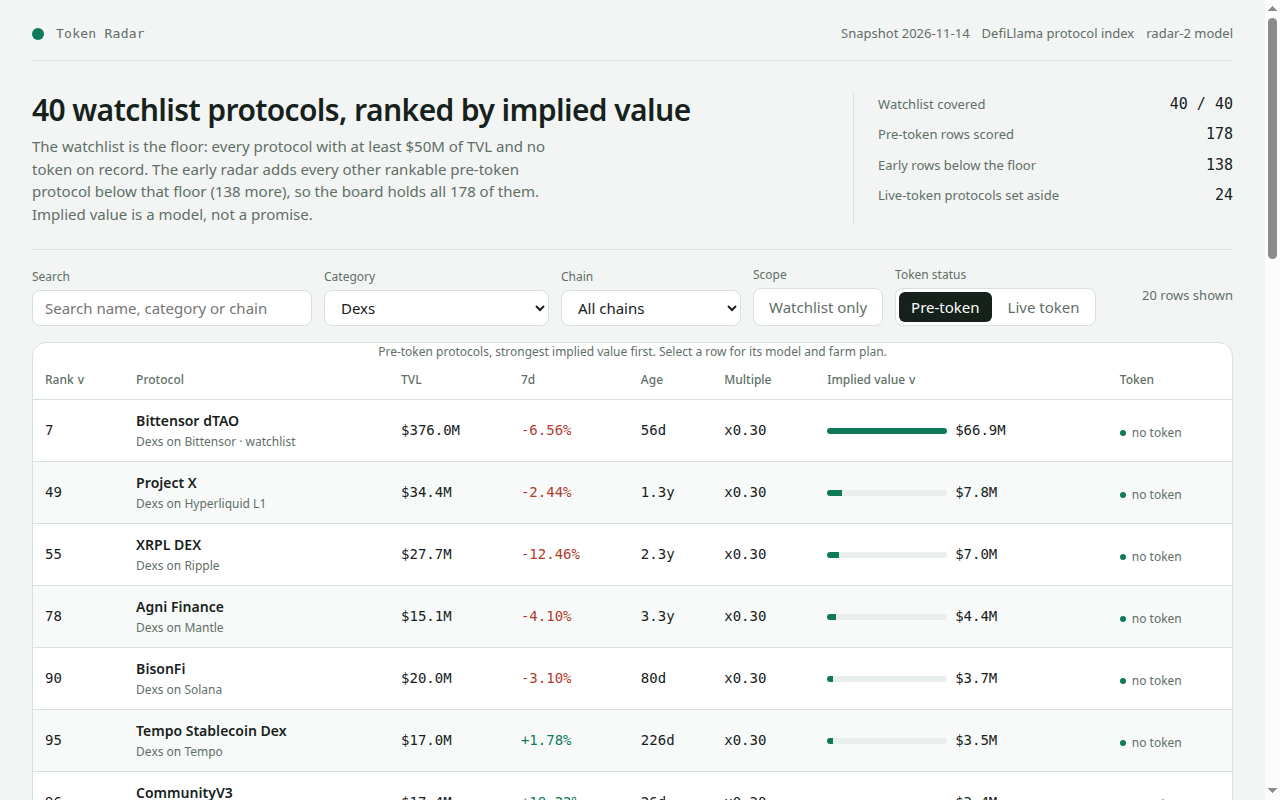
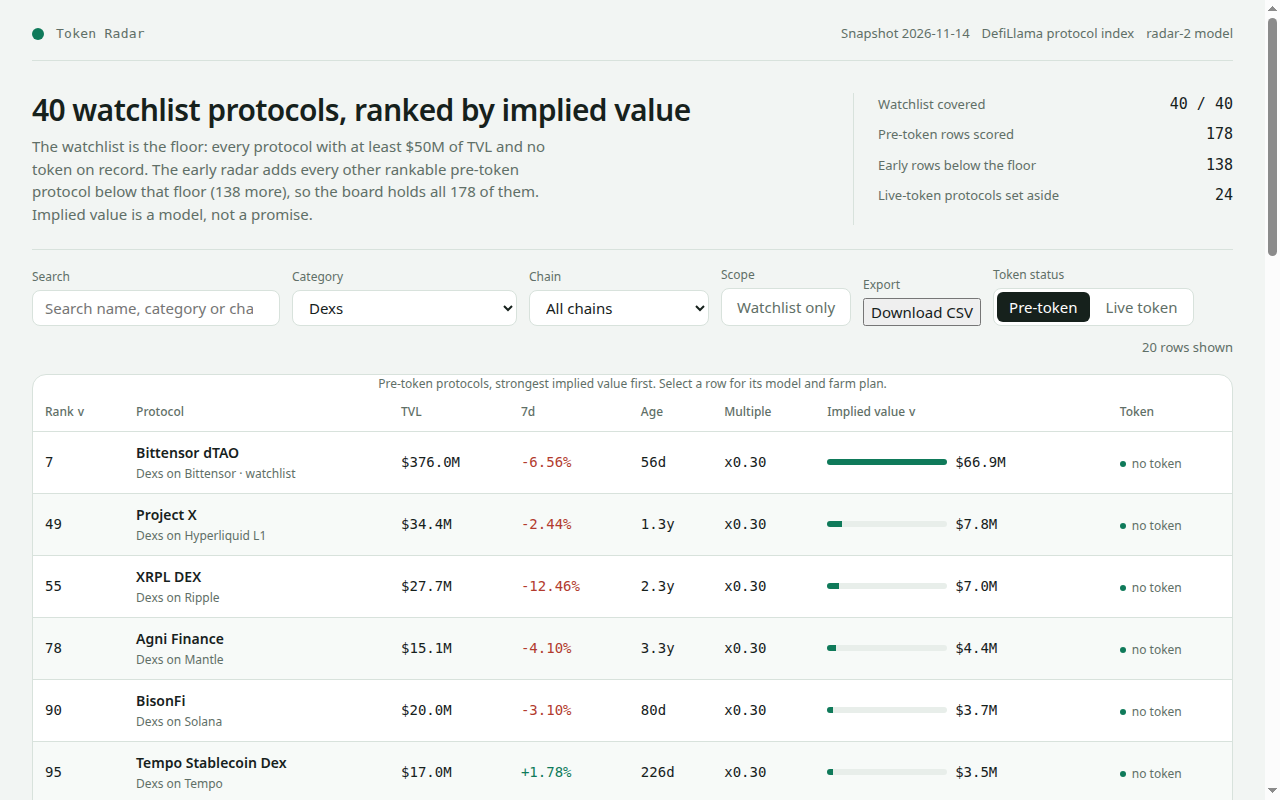
CSV export, copyable farm plans, verification docs, top-5 run log
- Dashboard: Download CSV button (board as CSV from the same rows),
  Copy farm plan button in the detail view.
- README: verification steps with exact commands, hand-checkable
  calibration math and a worked row (Steakhouse Financial), farm-plan
  derivation table, judging-criteria mapping, radar-1 to radar-2 log.
- main.ts prints the top 5 rows by implied value in the run log.
- Screenshots retaken from the rebuilt dashboard.

diff --git a/dashboard/app.js b/dashboard/app.js
@@ -119,6 +119,54 @@
     });
   }
 
+  // The board as a CSV file, built in the browser from the same rows the table shows: rank,
+  // slug, name, category, chains, TVL, seven-day growth, age, multiple and implied value.
+  // No network: the file is a Blob made from data.js, downloaded under a plain filename.
+  function downloadCsv() {
+    var head = ['rank', 'slug', 'name', 'category', 'chains', 'tvl_usd', 'change_7d', 'age_days', 'multiple', 'implied_value_usd'];
+    var lines = [head.join(',')];
+    DATA.rows.forEach(function (r) {
+      var cells = [
+        r.rank,
+        r.slug,
+        '"' + String(r.name).replace(/"/g, '""') + '"',
+        r.category || '',
+        '"' + (r.chains || []).join(';') + '"',
+        r.tvl_usd,
+        r.change_7d === null ? '' : r.change_7d,
+        r.age_days === null ? '' : r.age_days,
+        r.multiple,
+        r.implied_value_usd
+      ];
+      lines.push(cells.join(','));
+    });
+    var blob = new Blob([lines.join('\n') + '\n'], { type: 'text/csv' });
+    var a = document.createElement('a');
+    a.href = URL.createObjectURL(blob);
+    a.download = 'token-radar-board.csv';
+    document.body.appendChild(a);
+    a.click();
+    a.remove();
+    setTimeout(function () { URL.revokeObjectURL(a.href); }, 1000);
+  }
+
+  // The farm plan as plain text, for pasting into a farm log: one numbered step per line,
+  // each with its cost and time, exactly as board.json carries it.
+  function copyFarmPlan(steps, button) {
+    var text = steps.map(function (s, i) { return (i + 1) + '. ' + s; }).join('\n');
+    var done = function () { button.textContent = 'Copied to clipboard'; };
+    if (navigator.clipboard && navigator.clipboard.writeText) {
+      navigator.clipboard.writeText(text).then(done, function () { button.textContent = 'Copy failed — select the steps instead'; });
+    } else {
+      var area = document.createElement('textarea');
+      area.value = text;
+      document.body.appendChild(area);
+      area.select();
+      try { document.execCommand('copy'); done(); } catch (e) { button.textContent = 'Copy failed — select the steps instead'; }
+      area.remove();
+    }
+  }
+
   function header() {
     return el('header', { class: 'top' },
       el('div', { class: 'brand' }, el('span', { class: 'mark' }), el('span', { class: 'brand-name', text: 'Token Radar' })),
@@ -161,6 +209,7 @@
     );
     chainSelect.addEventListener('change', function () { state.chain = chainSelect.value; writeHash(); render(); });
     var wl = el('button', { type: 'button', 'aria-pressed': state.watchlistOnly ? 'true' : 'false', text: 'Watchlist only', onclick: function () { state.watchlistOnly = !state.watchlistOnly; writeHash(); render(); } });
+    var csv = el('button', { type: 'button', text: 'Download CSV', onclick: function () { downloadCsv(); } });
     var pre = el('button', { type: 'button', 'aria-pressed': state.tab === 'pre-token' ? 'true' : 'false', text: 'Pre-token', onclick: function () { state.tab = 'pre-token'; render(); } });
     var live = el('button', { type: 'button', 'aria-pressed': state.tab === 'live' ? 'true' : 'false', text: 'Live token', onclick: function () { state.tab = 'live'; render(); } });
     return el('div', { class: 'controls' },
@@ -168,6 +217,7 @@
       el('div', { class: 'field' }, el('label', { for: 'category', text: 'Category' }), select),
       el('div', { class: 'field' }, el('label', { for: 'chain', text: 'Chain' }), chainSelect),
       el('div', { class: 'field' }, el('span', { class: 'sub', text: 'Scope' }), el('div', { class: 'tabs' }, wl)),
+      el('div', { class: 'field' }, el('span', { class: 'sub', text: 'Export' }), csv),
       el('div', { class: 'field' }, el('span', { class: 'sub', text: 'Token status' }), el('div', { class: 'tabs' }, pre, live)),
       el('span', { class: 'count', text: state.tab === 'pre-token' ? rows().length + ' rows shown' : DATA.live.length + ' live-token protocols' })
     );
@@ -350,7 +400,9 @@
         var action = at >= 0 ? s.slice(0, at) : s;
         var tail = at >= 0 ? s.slice(at + 1) : '';
         return el('li', null, el('b', { text: action }), el('span', { class: 'cost', text: tail }));
-      }))
+      })),
+      el('p', { class: 'sub', text: 'Seven steps, each with its cost and time, derived from this protocol\'s own record.' }),
+      el('button', { class: 'button', type: 'button', text: 'Copy farm plan', onclick: function (e) { copyFarmPlan(steps, e.currentTarget); } })
     ));
     if (typeof dialog.showModal === 'function') {
       if (!dialog.open) dialog.showModal();

diff --git a/main.ts b/main.ts
@@ -118,8 +118,16 @@ const topCategories = calibration.categories
   .slice(0, 5)
   .map((c) => `${c.category} x${c.multiple}`)
   .join(', ');
+// The run's stdout is the build log a reader greps first: the board's size, the calibration it
+// used, and the five most valuable rows with their implied values, so a wrong run is visible
+// without opening any file.
+const topFive = board
+  .slice(0, 5)
+  .map((r) => `#${r.rank} ${r.slug} $${r.implied_value_usd.toLocaleString('en-US')}`)
+  .join(', ');
 process.stdout.write(
   `token radar: ${snapshot.protocols.length} protocols, ${snapshot.watchlist.length} on the watchlist, ${board.length} rows scored (${radar.early_size} early, ${radar.live_size} live set aside)\n` +
     `token radar: calibration from ${calibration.comparables} live-token comparables, global multiple x${calibration.global_multiple}; ${topCategories}\n` +
+    `token radar: top 5 by implied value: ${topFive}\n` +
     `token radar: wrote ${join(out, 'board.json')}, ${join(out, 'data.js')}, ${join(out, 'dashboard')} (3 files), ${join(out, 'screenshots')} (${shots.length} images) and ${join(out, 'dossier.json')}\n`,
 );

diff --git a/dashboard/app.css b/dashboard/app.css
@@ -75,7 +75,7 @@ a { color: var(--accent); }
   min-height: 36px; padding: 0 var(--step-3); border: 1px solid var(--border); border-radius: var(--radius-control);
   background: var(--surface); min-width: 180px;
 }
-.field input { min-width: 280px; }
+.field input { min-width: 240px; }
 .field input:focus, .field select:focus { border-color: var(--accent); outline: 2px solid var(--accent); outline-offset: 1px; }
 .tabs { display: flex; gap: var(--step-1); padding: 3px; border: 1px solid var(--border); border-radius: var(--radius-control); background: var(--surface); }
 .tabs button { min-height: 30px; padding: 0 var(--step-3); border: 0; border-radius: 6px; background: transparent; color: var(--muted); }

diff --git a/README.md b/README.md
@@ -88,3 +88,112 @@ Public GitHub repository, created after the competition opened
 submitted with the transcripts of the agent sessions that built it; the
 transcripts must account for the code, so the entry is written in-session,
 never copied in from elsewhere.
+
+## How to verify the numbers
+
+Everything below recomputes from the sealed snapshot alone; nothing is taken
+on trust. Run the entry first, then check its outputs:
+
+```sh
+mkdir -p out && MAKEFUN_OUTPUT_DIR=out node main.ts --input <snapshot>
+node -e "const b=require('./out/board.json'); console.log(b.rows.length)"
+# 178 rows: 40 watchlist slugs plus 138 early ones, ranks 1..178
+node -e "const s=require('<snapshot>'); const b=require('./out/board.json');
+  const wl=new Set(s.watchlist);
+  console.log('watchlist covered:', b.rows.filter(r=>wl.has(r.slug)).length, '/ 40')"
+# every watchlist slug appears exactly once
+node -e "const b=require('./out/board.json');
+  console.log('ranks 1..N:', b.rows.every((r,i)=>r.rank===i+1));
+  console.log('implied non-increasing:', b.rows.every((r,i)=>i===0||r.implied_value_usd<=b.rows[i-1].implied_value_usd))"
+# the board is a ranking, not a list: rank 1 is the most valuable row
+```
+
+The calibration can be checked by hand from the snapshot: take every
+protocol with a market cap and a TVL, both positive, outside the excluded
+categories (Bridge, Canonical Bridge, Liquid Staking, Liquid Restaking,
+Restaked BTC, CEX) and outside anything bridge-like, divide market cap by
+TVL, and take the median. On the 2026-11-14 snapshot that is x0.246 over 90
+protocols. Each category's multiple is its own median shrunk toward it:
+
+```
+multiple(category) = (n x median(category) + 10 x 0.246) / (n + 10)
+```
+
+clamped to [0.05, 1.0], and a category with fewer than 3 comparables uses
+x0.246. One row, recomputed in full — Steakhouse Financial, rank 1:
+
+```
+TVL $2,753,981,495 x multiple x0.246 (Risk Curators: fewer than 3
+comparables, so the global multiple) x growth (1 + (-2.1935)/100 x 0.5
+= 0.9890325) x maturity (0.6 + 543/1095 x 0.4 = 0.7983562)
+x breadth (1 + 0.02 x 5 chains = 1.1)
+= $588,431,693
+```
+
+The dashboard's detail view shows the same arithmetic for every row and
+says whether the page's recomputation matches the number `board.json`
+carries. The run is deterministic: run it twice and `diff -r` the two
+output directories — they are byte-identical.
+
+## Farm-plan derivation
+
+The plan's shape is fixed (seven steps: wallet, core position, weekly
+action, hold, spread, points check, log) and its content comes from the
+protocol's own record:
+
+| Category words | Core position | Weekly action |
+|---|---|---|
+| lend, cdp, collateral | Supply USDC | Borrow a little and repay it |
+| dex, yield, leveraged farm | Provide liquidity | Swap a little through the pool |
+| bridge | Bridge USDC | Bridge a little back |
+| staking, restak | Stake the chain's asset | Top up or restake rewards |
+| perpetual, derivative | Deposit margin, open a hedge | Close the hedge, open a smaller one |
+| prediction | Fund a market position | Settle one market, open another |
+| curator, allocator | Deposit into a vault | Move part between two vaults |
+| stable | Mint or deposit the stable asset | Mint a little more |
+| rwa | Mint the yield asset | Buy a little more |
+| insurance | Buy cover | Renew or top up the cover |
+| anything else | Deposit USDC | A second kind of action |
+
+Capital is sized to TVL ($250 above $5B, $150 above $1B, $100 above $100M,
+$50 below that); the hold is 60 days for protocols under 180 days old, 45
+under a year, 30 beyond it. Gas is priced by first chain: Ethereum mainnet
+costs about $8 a transaction, every other chain about $2–4.
+
+## What the judge is asked to weigh
+
+The bounty judges entries pairwise, most important first:
+
+1. **A working radar.** The board covers the whole watchlist, ranks
+   pre-token protocols by a stated implied value, and the screenshots and
+   the code agree: the farm plan the detail view shows is the string
+   `board.json` carries, and the detail view recomputes the implied value
+   in the page and confirms the match.
+2. **The value model.** The multiple is calibrated from the snapshot's own
+   live-token comparables (see above), the growth, maturity and breadth
+   multipliers are functions of the snapshot's figures, and no name is
+   special-cased anywhere in `lib/model.ts`. Token-bearing protocols are
+   kept in their own view with market caps, never ranked as pre-token.
+3. **Farm plans.** Seven steps per protocol, each with a cost and a time,
+   derived from the protocol's category, chains, TVL and age — not slogans.
+4. **The dashboard as a page.** Search, category and chain filters, a
+   watchlist-only toggle, sortable columns, a detail view for every row, a
+   CSV export of the board and a copyable farm plan.
+5. **It looks made.** One palette, one type scale, consistent spacing; the
+   board's header sticks while its 178 rows scroll, and the page prints
+   without its controls.
+
+## Change log
+
+- **radar-1 (starter).** Flat multiple x0.25 for every protocol; the early
+  radar took the 160 pre-token protocols below the floor with the most TVL,
+  keeping bridges and liquid-staking products among them; farm plans were
+  generated twice, once in the model and once in the page.
+- **radar-2 (this entry).** Multiples calibrated from the snapshot's own
+  comparables, per category with shrinkage; the early radar holds every
+  rankable pre-token protocol below the floor (138) and excludes bridges,
+  liquid-staking products, exchanges and wrapped/staked names by the
+  watchlist rule; a breadth multiplier for multi-chain protocols; 7-step
+  farm plans with chain-aware gas, shipped in `data.js` so page and board
+  agree by construction; chain filter, watchlist-only toggle, Multiple
+  column, calibration table, CSV export and copyable farm plans.
